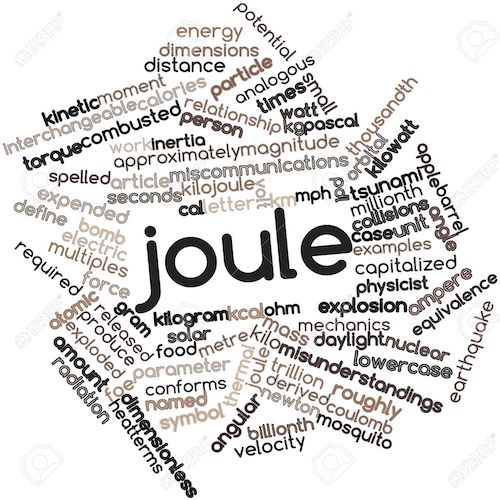
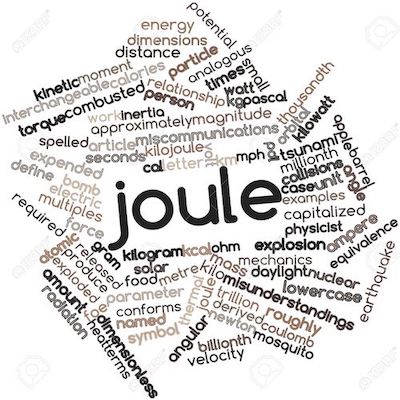
edit the size of image

diff --git a/assets/javascript/game.js b/assets/javascript/game.js
@@ -17,32 +17,32 @@ const scoreDiv = document.getElementById("scoreContainer");
 
 let questions = [
     {
-        question: "	A piece of ice is dropped in a vesel containing kerosene. When ice melts, the level of kerosene will",
+        question: "1. A piece of ice is dropped in a vesel containing kerosene. When ice melts, the level of kerosene will",
         imgSrc: "assets/image/ice.png",
-        choiceA: "Rise",
-        choiceB: "Fall",
-        choiceC: "Remain Same",
+        choiceA: "A. Rise",
+        choiceB: "B.Fall",
+        choiceC: "C.Remain Same",
         correct: "B"
     }, {
-        question: "	Young's modulus is the property of",
+        question: "2. Young's modulus is the property of",
         imgSrc: "assets/image/young.png",
-        choiceA: "Liquid only",
-        choiceB: "Gas only",
-        choiceC: "Solid only",
+        choiceA: "A.Liquid only",
+        choiceB: "B.Gas only",
+        choiceC: "C.Solid only",
         correct: "C"
     }, {
-        question: "Joule is the unit of:",
+        question: "3. Joule is the unit of:",
         imgSrc: "assets/image/joule.png",
-        choiceA: "Temperature",
-        choiceB: "Pressure",
-        choiceC: "Energy",
+        choiceA: "A.Temperature",
+        choiceB: "B.Pressure",
+        choiceC: "C.Energy",
         correct: "C"
     }, {
-        question: "	What is the scale used for measuring the intensity of the earthquake?",
+        question: "4. What is the scale used for measuring the intensity of the earthquake?",
         imgSrc: "assets/image/earthquake.png",
-        choiceA: "Metric Scale",
-        choiceB: "Richter Scale",
-        choiceC: "Quake Scale",
+        choiceA: "A.Metric Scale",
+        choiceB: "B.Richter Scale",
+        choiceC: "C.Quake Scale",
         correct: "B"
     }
 
@@ -58,6 +58,7 @@ const gaugeWidth = 150; // 150px
 const gaugeUnit = gaugeWidth / questionTime;
 let TIMER;
 let score = 0;
+let wrong = 0;
 
 // render a question
 function renderQuestion() {
@@ -75,13 +76,29 @@ start.addEventListener("click", startQuiz);
 // start quiz
 function startQuiz() {
     start.style.display = "none";
+    message.style.display = "none";
+
     renderQuestion();
     quiz.style.display = "block";
+    heading.style.display = "block";
     renderProgress();
     renderCounter();
     TIMER = setInterval(renderCounter, 1000); // 1000ms = 1s
 }
 
+// greeting message
+var today = new Date()
+var curHr = today.getHours()
+
+if (curHr >= 0 && curHr < 6) {
+    message.innerHTML = 'What are you doing that early?';
+} else if (curHr >= 6 && curHr <= 12) {
+    message.innerHTML = 'Good Morning';
+} else if (curHr >= 12 && curHr < 17) {
+    message.innerHTML = 'Good Afternoon';
+} else {
+    message.innerHTML = 'Good Evening';
+}
 // render progress
 function renderProgress() {
     for (let qIndex = 0; qIndex <= lastQuestion; qIndex++) {
@@ -121,6 +138,7 @@ function checkAnswer(answer) {
         answerIsCorrect();
     } else {
         // answer is wrong
+        wrong++
         // change progress color to red
         answerIsWrong();
     }
@@ -143,12 +161,15 @@ function answerIsCorrect() {
 
 // answer is Wrong
 function answerIsWrong() {
-    document.getElementById(runningQuestion).style.backgroundColor = "#f00";
+    incorrect.textContent = "incorrect :" + wrong;
 }
 
 // score render
 function scoreRender() {
     scoreDiv.style.display = "block";
+    quiz.style.display = "none";
+    heading.textContent = "Result";
+
 
     // calculate the amount of question percent answered by the user
     const scorePerCent = Math.round(100 * score / questions.length);
@@ -158,11 +179,12 @@ function scoreRender() {
         (scorePerCent >= 60) ? "assets/image/4.png" :
             (scorePerCent >= 40) ? "assets/image/3.png" :
                 (scorePerCent >= 20) ? "assets/image/2.png" :
-                    "img/1.png";
+                    "assets/image/1.png";
 
     scoreDiv.innerHTML = "<img src=" + img + ">";
     scoreDiv.innerHTML += "<p>" + scorePerCent + "%</p>";
+
 }
 // change the baclground color 
 
-document.body.style.backgroundColor = `grey`;
+document.body.style.backgroundColor = `ligthgrey`;

diff --git a/index.html b/index.html
@@ -21,10 +21,10 @@
 
     <div class="container">
 
-        <h1 class="center" style="color:magenta;" id="message">message</h1>
-        <h4 class="center" style="color:grey;" id="heading">Quiz Game</h4>
+        <h1 class="center" style="color:pink;" id="message">message</h1>
+        <h3 class="center bold" style="color:green;display:none;" id="heading">Quiz Qiuestions</h3>
 
-        <h2 class="center" style="color:red;" id="start">Start Quiz!</h2>
+        <h2 class="center" style="color:red;" display="block" id="start">Start Quiz!</h2>
         <div class="card text-center" id="quiz" style="display:none">
 
             <div class="card-body center">
@@ -44,22 +44,23 @@
 
             </div>
 
-            <div class="row">
-                <div class="col">
-                    <div id="timer">
-                        <div id="counter"></div>
-                        <div id="btimeGauge"></div>
-                        <div id="timeGauge"></div>
-                    </div>
-                    <div class="col right" id="correct"></div>
+            <h4 class="col right" id="correct"></h4>
+            <h4 class="col right" id="incorrect"></h4>
 
-                    <div class="progress center">
-                        <div id="progress"></div>
-                    </div>
-                </div>
-
+            <div id="timer">
+                <div id="counter"></div>
+                <div id="btimeGauge"></div>
+                <div id="timeGauge"></div>
             </div>
-            <div class="col align-self-end" id="correct"></div>
+            <h4 class="col right" id="correct"></h4>
+
+            <div class="progress center">
+                <div id="progress"></div>
+            </div>
+
+
+
+            <div class="text-right" id="correct"></div>
         </div>
         <div id="scoreContainer" style="display: none"></div>
 

diff --git a/assets/css/style.css b/assets/css/style.css
@@ -20,7 +20,7 @@
 #timeGauge{
     height : 10px;
     border-radius: 10px;
-    
+    background-color: mediumseagreen; 
     margin-top : -10px;
     margin-left : 25px;
 }
